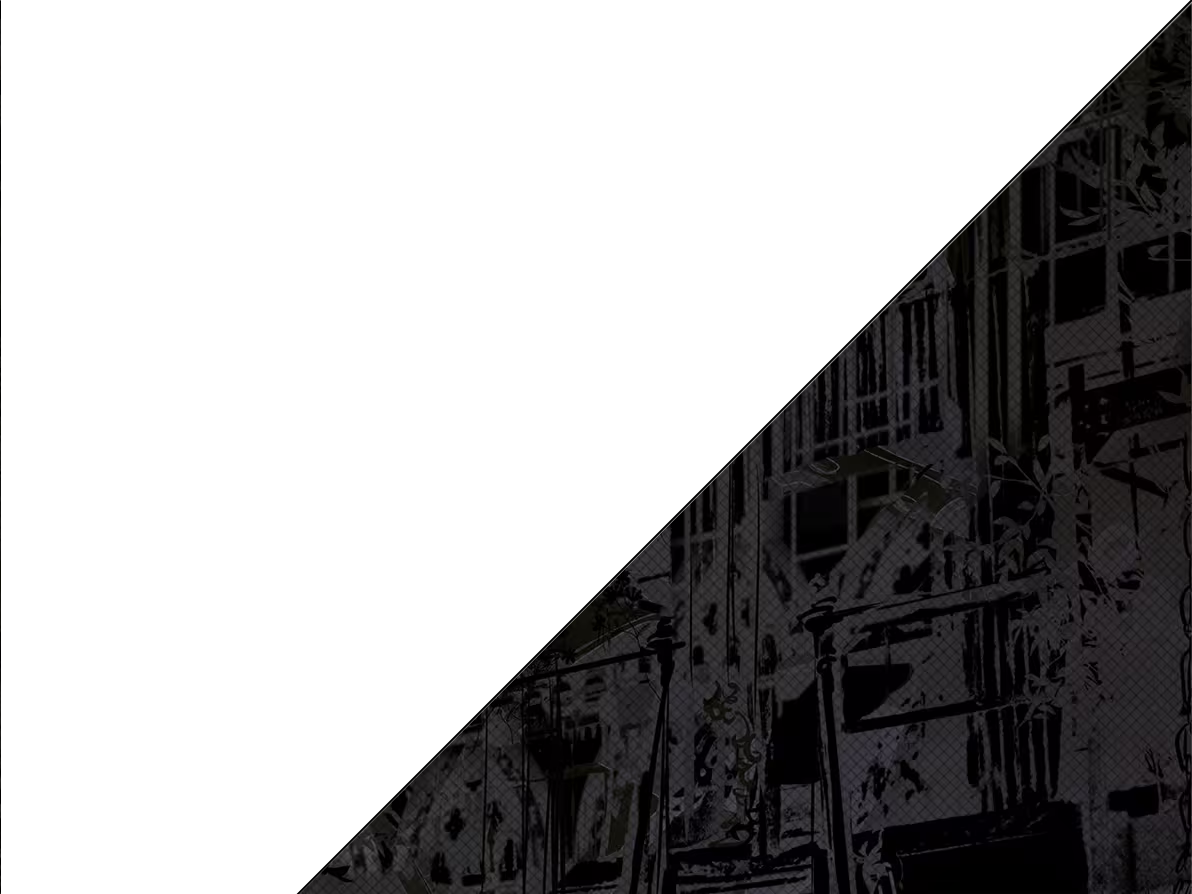
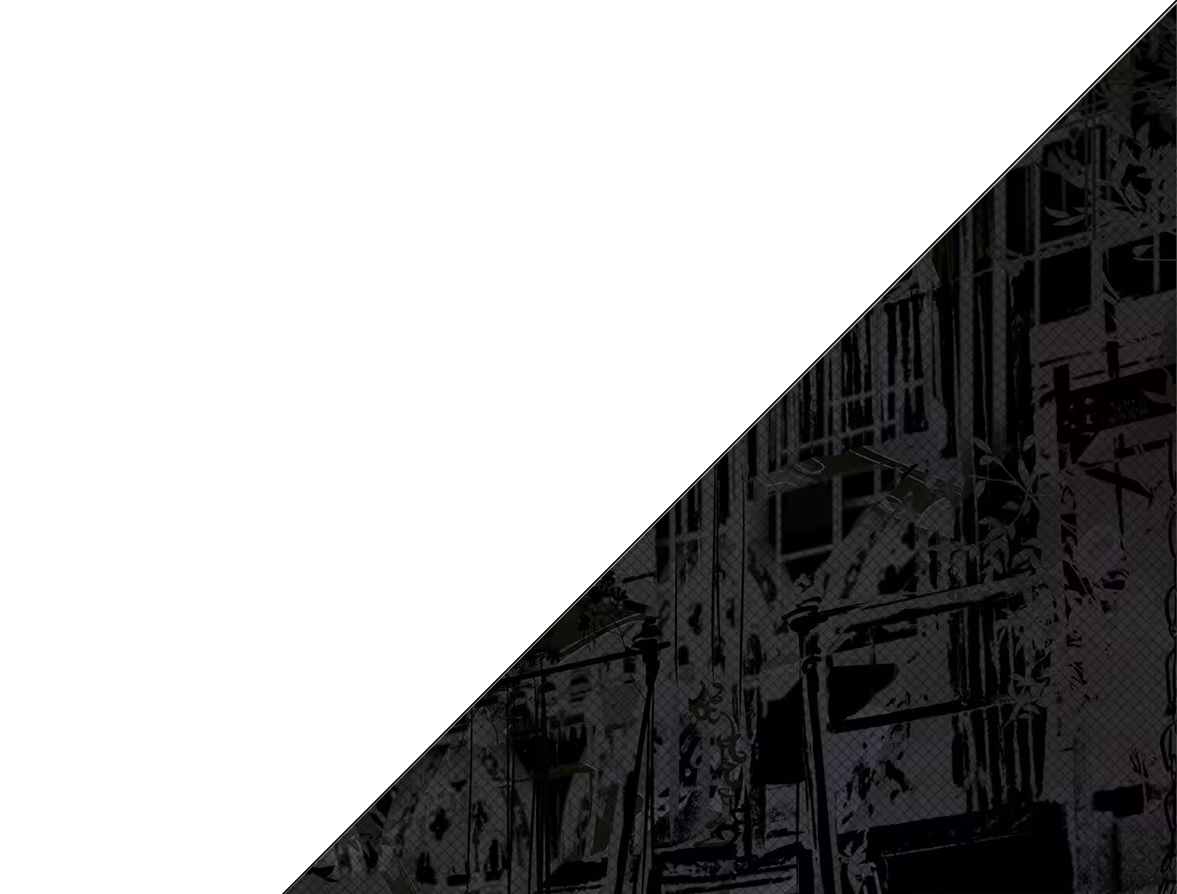
增加了右下角图片，优化了曲包图片ui，调整了按钮ui位置

diff --git a/css/page2.css b/css/page2.css
@@ -20,14 +20,14 @@
     background: #fefefe;
     margin: 0 20px;
     clip-path: polygon(
-    15% 0%,    /* 左上 */
-    85% 0%,    /* 右上 */
-    100% 15%,  /* 右中上 */
-    100% 85%,  /* 右中下 */
-    85% 100%,  /* 右下 */
-    15% 100%,  /* 左下 */
-    0% 85%,    /* 左中下 */
-    0% 15%     /* 左中上 */
+    7% 0%,    /* 左上 */
+    93% 0%,    /* 右上 */
+    100% 7%,  /* 右中上 */
+    100% 89%,  /* 右中下 */
+    89% 100%,  /* 右下 */
+    11% 100%,  /* 左下 */
+    0% 89%,    /* 左中下 */
+    0% 7%     /* 左中上 */
     );
 }
 .item {
@@ -37,14 +37,14 @@
         width: 280.5px;
         height: 562.5px;
 		clip-path: polygon(
-		15% 0%,    /* 左上 */
-		85% 0%,    /* 右上 */
-		100% 15%,  /* 右中上 */
-		100% 85%,  /* 右中下 */
-		85% 100%,  /* 右下 */
-		15% 100%,  /* 左下 */
-		0% 85%,    /* 左中下 */
-		0% 15%     /* 左中上 */
+            7% 0%,    /* 左上 */
+        93% 0%,    /* 右上 */
+        100% 7%,  /* 右中上 */
+        100% 89%,  /* 右中下 */
+        89% 100%,  /* 右下 */
+        11% 100%,  /* 左下 */
+        0% 89%,    /* 左中下 */
+        0% 7%     /* 左中上 */
 		);
         -webkit-user-drag: none;
         flex-shrink: 0;

diff --git a/html/index.html b/html/index.html
@@ -14,7 +14,7 @@
     <h1>欢迎来到我们的网站!</h1>
     <p>welcome to our website!!</p>
     <!-- 主要按钮 -->
-    <div style="position: absolute; width: 800px; height: 600px; right : 200px; top: 100px; ">
+    <div style="position: absolute; width: 800px; height: 600px; right : 550px; top: 100px; ">
         <svg width="800" height="600" viewBox="0 0 800 600">
             <path d="M500,300 L650,150 L800,300 L650,450 Z" 
                 fill="rgba(176, 85, 224, 0.667)"
@@ -61,6 +61,7 @@
         </svg>
     </div>
     <img src="../icon/long.png" alt="背景图片" class="moving-bg">
+    <img src="../icon/half.png" alt="右下角" class="half">
     <script type="text/javascript" src="../js/index.js"></script>
     <script type="text/javascript" src="../js/login.js"></script>
 

diff --git a/html/page2.html b/html/page2.html
@@ -10,8 +10,8 @@
 	<div style="background: ;
 	position:absolute;top:0;left:0;height:100%;width:100%;opacity: 0.85;
 	z-index:-1;"></div>
-	<img src="../icon/background/back_startgame.png" alt="背景图片"
-	style="position: absolute; left: 0; top: 0; width: 100%; height: 100%;z-index: -10;filter: blur(5px);">
+	<img src="../icon/background/BlackBackground.png" alt="背景图片"
+	style="position: absolute; left: 0; top: 0; width: 100%; height: 100%;z-index: -10;filter: blur(2px);">
 	<!-- <div style="position: absolute; top: 80px; left: 0; width: 99%; height: 80%;
 	border: solid 5px #e0da9f; overflow: hidden;">
 	</div> -->

diff --git a/css/index.css b/css/index.css
@@ -58,6 +58,13 @@
   opacity: 1;
   
 }
+.half{
+  position: fixed;
+  left: 40%;
+  top: 0%;
+  width: 70%;
+  height: 100%;
+}
 
 @keyframes backgroundScroll {
   from {
